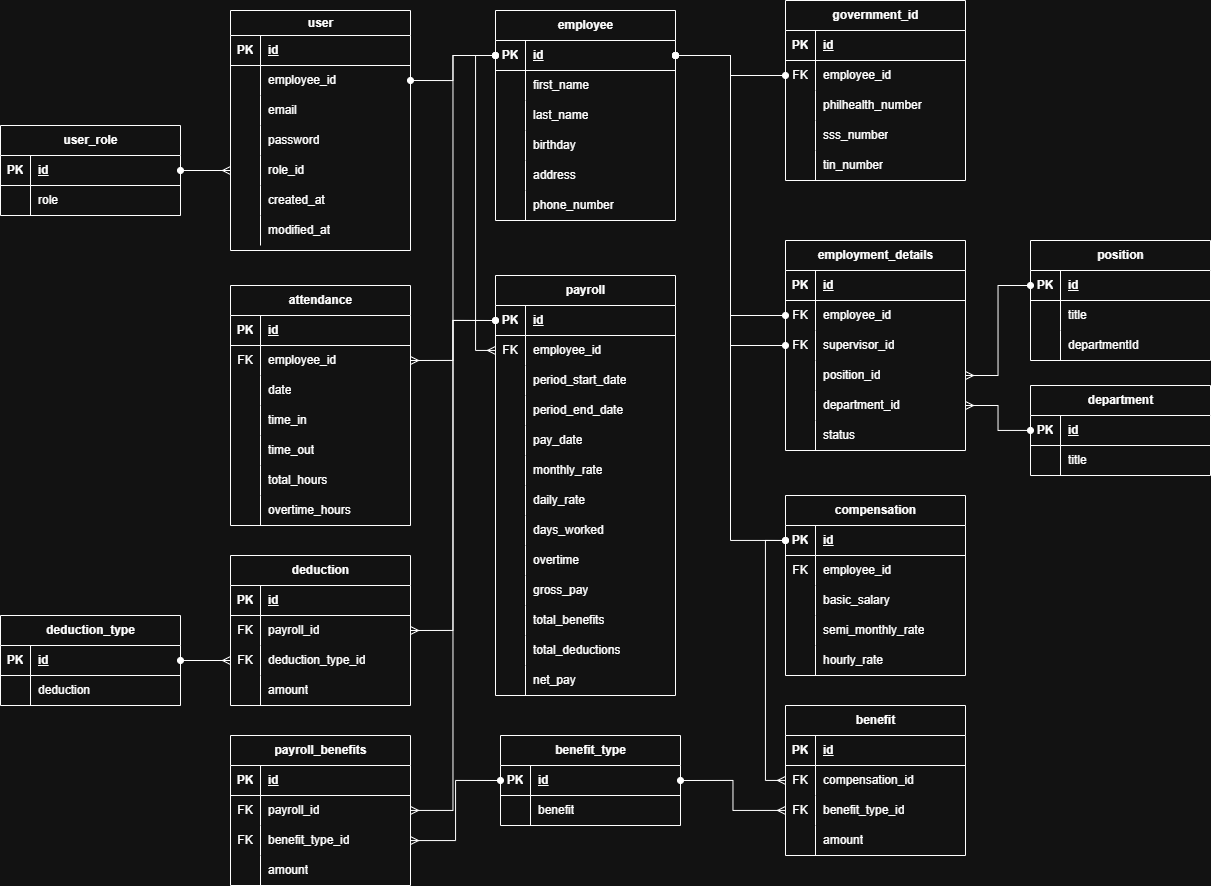
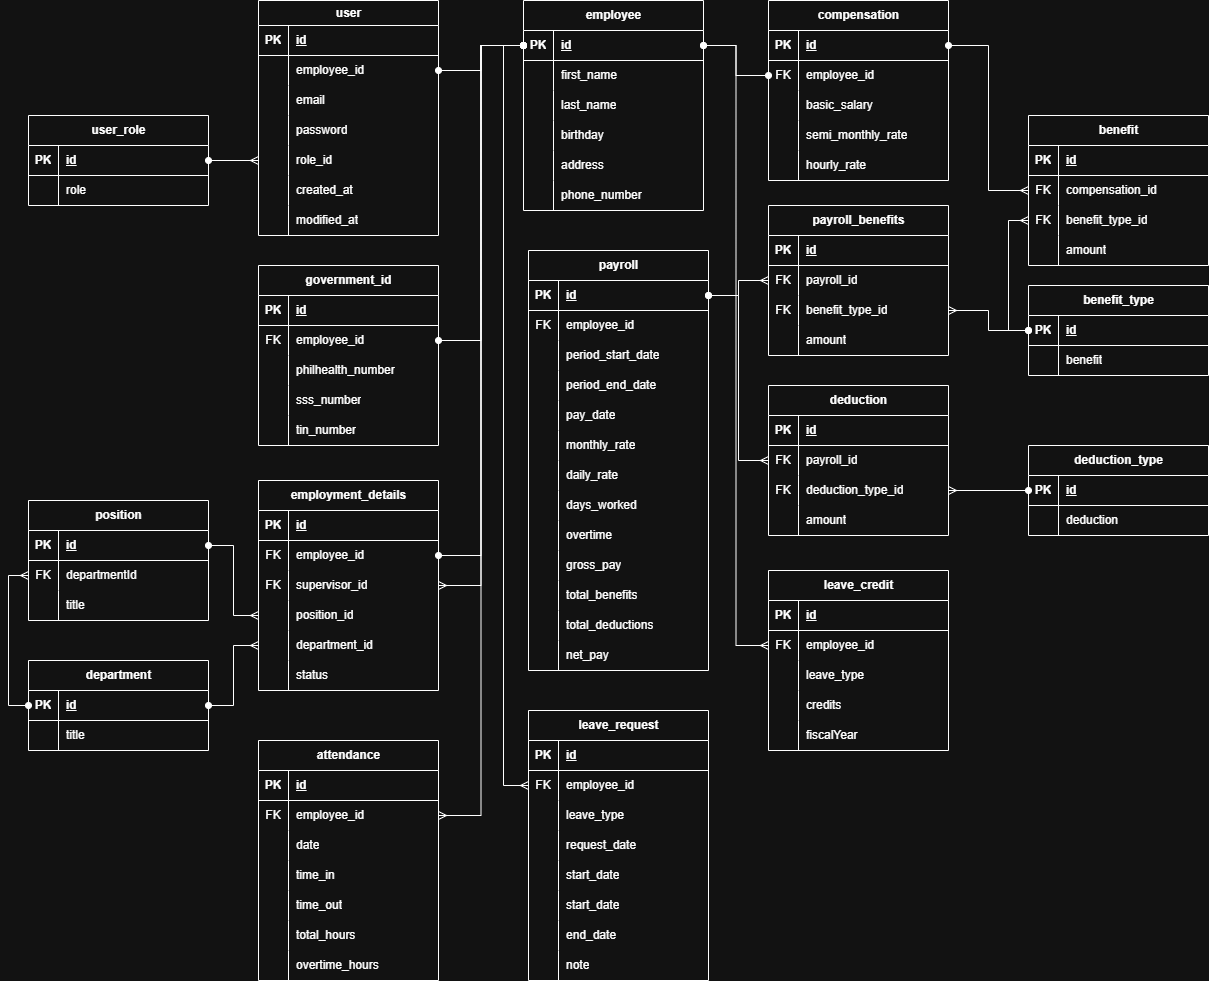
Docs: add leave management module to documentation

diff --git a/readme.md b/readme.md
@@ -42,6 +42,7 @@ motorph_api/
 │   │   │   ├── common/                       # Shared utilities and DTOs
 │   │   │   ├── csvimport/                    # CSV import functionality
 │   │   │   ├── employee/                     # Employee management module
+│   │   │   ├── leave/                        # Leave management module
 │   │   │   ├── organization/                 # Department & Position management
 │   │   │   ├── payroll/                      # Payroll processing module
 │   │   │   └── security/                     # Authentication & Authorization
@@ -91,6 +92,17 @@ The database schema follows a normalized relational design with the following ke
 - One-to-one with Employee
 - Contains username, password (encrypted), and roles
 
+**Leave Management**
+- **LeaveRequest** - Employee leave applications
+  - Many-to-one relationship with Employee
+  - Fields: leave type, request date, start/end dates, status, notes
+  - Status: PENDING, APPROVED, REJECTED
+  - Types: Vacation, Sick, Maternity, Paternity, Solo Parent, Bereavement
+- **LeaveCredit** - Employee leave balances
+  - Many-to-one relationship with Employee
+  - Tracks available leave credits by type and fiscal year
+  - Fields: leave type, credits (days), fiscal year
+
 ## 🔑 Key Features
 
 ### 1. Employee Management
@@ -119,7 +131,30 @@ The database schema follows a normalized relational design with the following ke
 - Integration with attendance data for accurate calculations
 - Benefits and deductions management system
 
-### 4. Security & Authentication
+### 4. Leave Management
+- **Leave Request Management**
+  - Create, update, and track employee leave requests
+  - Support for multiple leave types: Vacation, Sick, Maternity, Paternity, Solo Parent, Bereavement
+  - Automatic business day calculation (excludes weekends)
+  - Leave status workflow: PENDING → APPROVED/REJECTED
+  - Employees can manage their own leave requests
+  - HR can view and approve/reject all leave requests
+  - Validation to prevent overlapping leave requests
+  - Note/reason field for leave justification
+  
+- **Leave Credit Management**
+  - Initialize leave credits for employees (HR only)
+  - Default annual leave allocations:
+    - Vacation Leave: 14 days
+    - Sick Leave: 7 days
+    - Bereavement Leave: 5 days
+  - Fiscal year-based credit tracking
+  - Automatic credit validation before leave approval
+  - Real-time credit balance tracking
+  - CSV bulk import for leave credit initialization
+  - View personal leave credit balances
+
+### 5. Security & Authentication
 - JWT-based stateless authentication
 - Role-based access control (RBAC) with method-level security
 - Secure password hashing with BCrypt
@@ -127,14 +162,14 @@ The database schema follows a normalized relational design with the following ke
 - User session management through JWT tokens
 - Token-based API security
 
-### 5. User Management
+### 6. User Management
 - User account creation and management
 - Role assignment and permission control
 - Integration with employee records
 - CSV bulk import for user accounts
 - IT-role exclusive access for user administration
 
-### 6. Data Import
+### 7. Data Import
 - CSV file processing for bulk data imports
 - Employee data import with validation
 - User account bulk creation
@@ -215,6 +250,23 @@ GET    /api/payroll           # Get all payroll records with pagination (PAYROLL
 GET    /api/payroll/me        # Get my payroll records with pagination
                               # Query params: page, limit, periodStartDate, periodEndDate
 GET    /api/payroll/{id}      # Get payroll by ID
+```
+
+### Leave Management
+```
+POST   /api/leaves            # Create leave request
+GET    /api/leaves            # Get leave requests with pagination
+                              # Employees see own requests, HR sees all
+                              # Query params: pageNum, limit
+GET    /api/leaves/{id}       # Get leave request by ID
+PUT    /api/leaves/{id}       # Update leave request (own requests only)
+PATCH  /api/leaves/{id}       # Update leave status - approve/reject (HR only)
+DELETE /api/leaves/{id}       # Delete leave request
+
+POST   /api/leaves/credits    # Initialize employee leave credits (HR only)
+                              # Supports JSON body or CSV upload (multipart/form-data)
+GET    /api/leaves/credits    # Get my leave credit balances
+DELETE /api/leaves/credits/employees/{employeeId}  # Delete employee leave credits
 ```
 
 ### User Management
@@ -361,6 +413,8 @@ The project includes comprehensive test coverage:
   - Employee Service
   - Attendance Service
   - Payroll Service
+  - Leave Request Service
+  - Leave Credit Service
   - User Service
 
 Run tests with:
@@ -374,6 +428,7 @@ Run tests with:
 - [x] Employee management system
 - [x] Attendance tracking
 - [x] Payroll processing
+- [x] Leave management system
 - [x] JWT authentication
 - [x] Role-based authorization
 - [x] CSV import functionality
